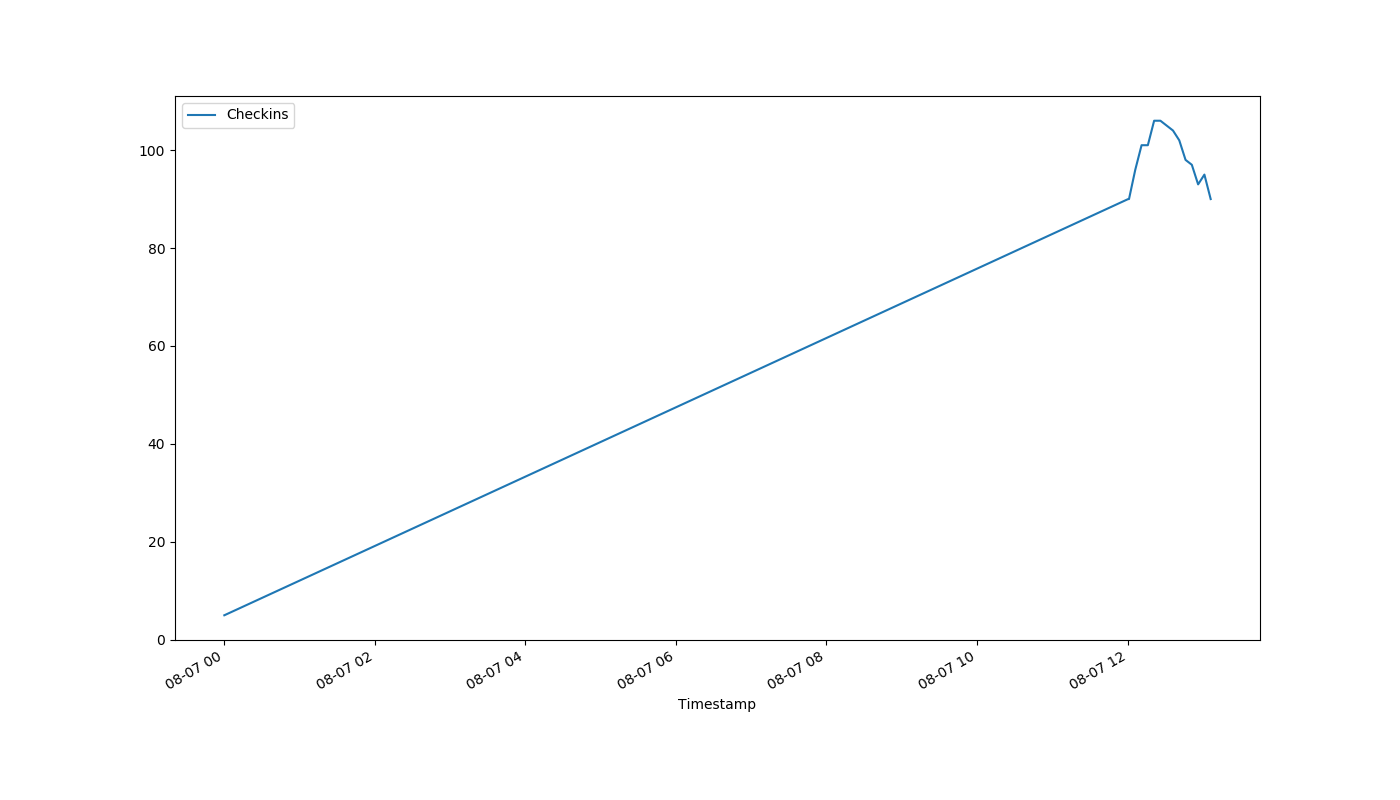
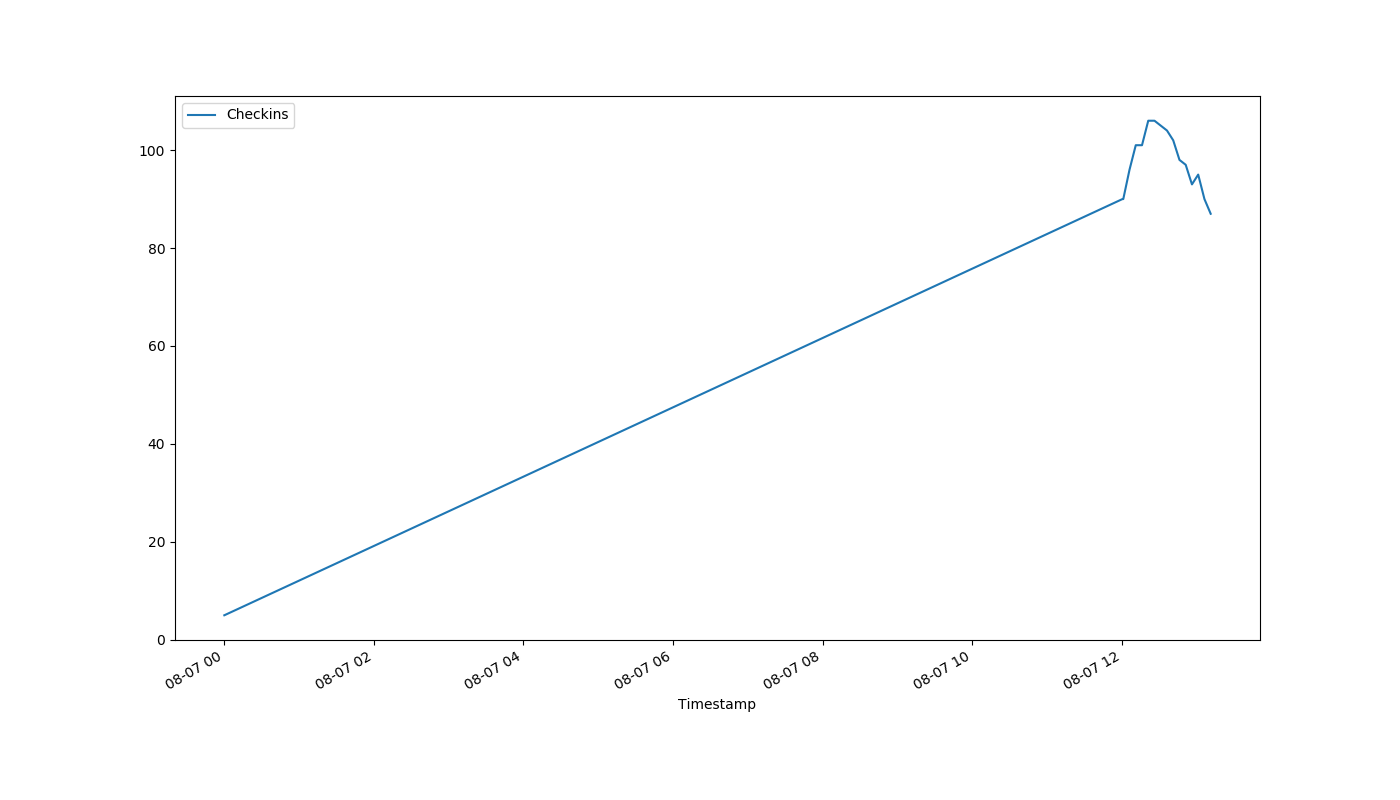
auto-Aug-07-13:11:17

diff --git a/index.html b/index.html
@@ -1,1 +1,1 @@
-<!DOCTYPE html><html><head><meta http-equiv="refresh" content="30"><link rel='stylesheet' href='holmcurrent.css'></head><body><p id='count'>90</p><div id='graph-wrap'><img id='graph' src='holmgraph-Aug-07.png'></div><p id='updated'>Last updated 13:06:11 / 13:06:05</p></body></html>
+<!DOCTYPE html><html><head><meta http-equiv="refresh" content="30"><link rel='stylesheet' href='holmcurrent.css'></head><body><p id='count'>87</p><div id='graph-wrap'><img id='graph' src='holmgraph-Aug-07.png'></div><p id='updated'>Last updated 13:11:12 / 13:11:06</p></body></html>
